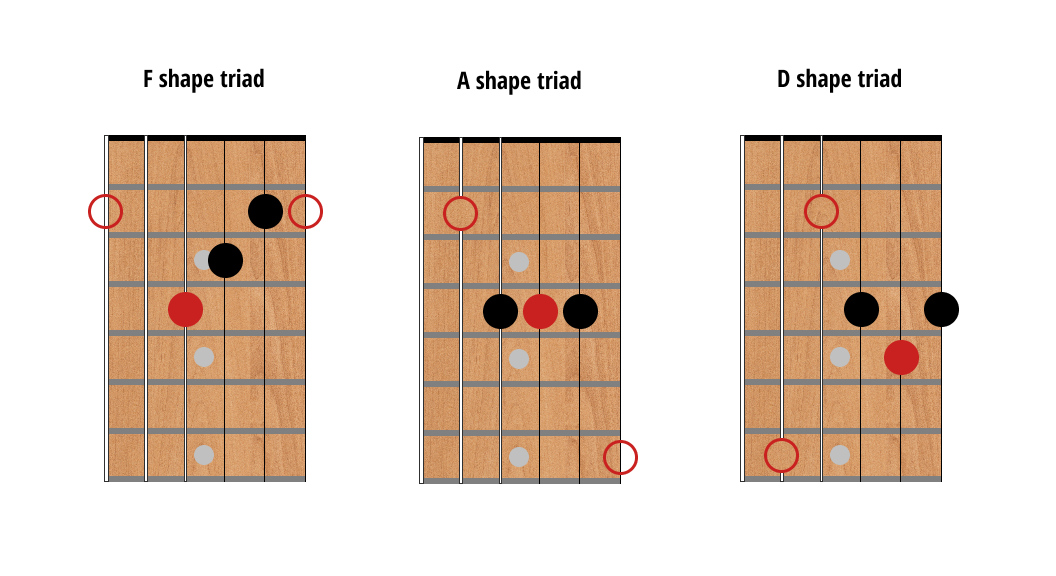
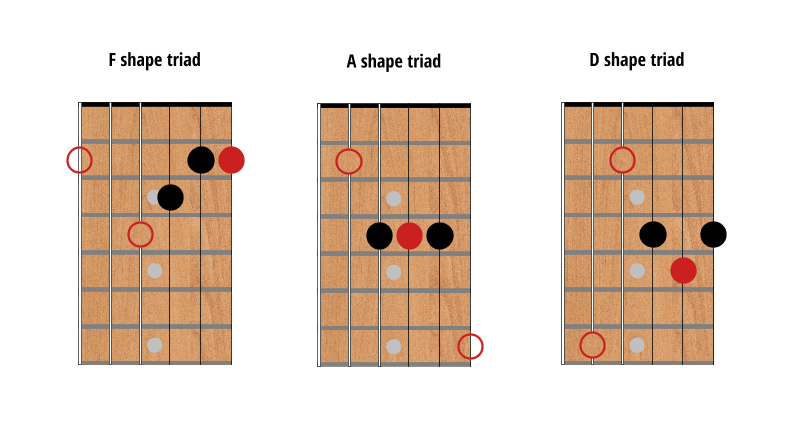
Put F shape triad on top three strings

diff --git a/content/guitar/Fundamentals/harmony/triads/FAD/index.md b/content/guitar/Fundamentals/harmony/triads/FAD/index.md
@@ -7,20 +7,22 @@ description: "CAGED simplified"
 type: "docs"
 weight: 50
 resources:
-  - src: "CAGED-C.png"
-    title: "Fig 1. CAGED: C Major, C shape"
-  - src: "CAGED-A.png"
-    title: "Fig 2. CAGED: C Major, A shape"
-  - src: "CAGED-G.png"
-    title: "Fig 3. CAGED: C Major, G shape"
-  - src: "CAGED-E.png"
-    title: "Fig 4. CAGED: C Major, E shape"
-  - src: "CAGED-D.png"
-    title: "Fig 5. CAGED: C Major, D shape"
   - src: "C-Major-Arpeggios.png"
-    title: "Fig 6. C Major Arpeggios"
+    title: "Fig 1. C Major arpeggios"
+  - src: "CAGED-C.png"
+    title: "Fig 2. CAGED: C Major, C shape"
+  - src: "CAGED-A.png"
+    title: "Fig 3. CAGED: C Major, A shape"
+  - src: "CAGED-G.png"
+    title: "Fig 4. CAGED: C Major, G shape"
+  - src: "CAGED-E.png"
+    title: "Fig 5. CAGED: C Major, E shape"
+  - src: "CAGED-D.png"
+    title: "Fig 6. CAGED: C Major, D shape"
   - src: "barre-triads.png"
     title: "Fig 7. Rex's FAD: Three triads"
+  - src: "FAD-arpeggios.png"
+    title: "Fig 8. C Major arpeggios, FAD Triads"
   - src: "F-alt-fingerings.png"
     title: "Fig 8. F-shape chord fingerings"
   - src: "A-alt-fingerings.png"
@@ -93,9 +95,15 @@ Things became *much* easier when I did two things:
 
 The triad "kernels" of Rex's FAD are shown with solid circles, alternate root locations are shown with hollow circles.
 
+I only think about those three simple triad shapes when I try to locate things on the fretboard. For example, my brain "sees" [figure 1](#C-Major-Arpeggios) like this:
+
+{{< figproc "FAD-arpeggios" "Resize" "800x" >}}{{< /figproc >}}
+
+The triad "kernels" sort of light up in my brain.
+
 Note where the roots are in each shape (shown in red):
 
-* The 4th string for the F shape (with an alternate on the 1st).
+* The 1st string for the F shape (with an alternate on the 4th).
 
 * The 3rd string for the A shape.
 
